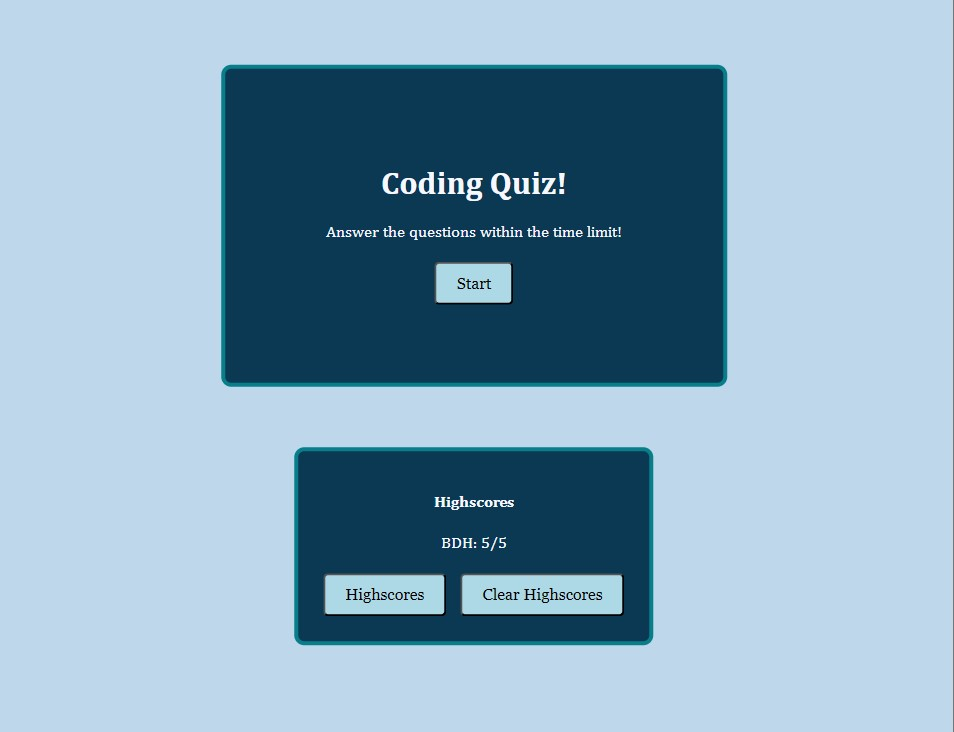
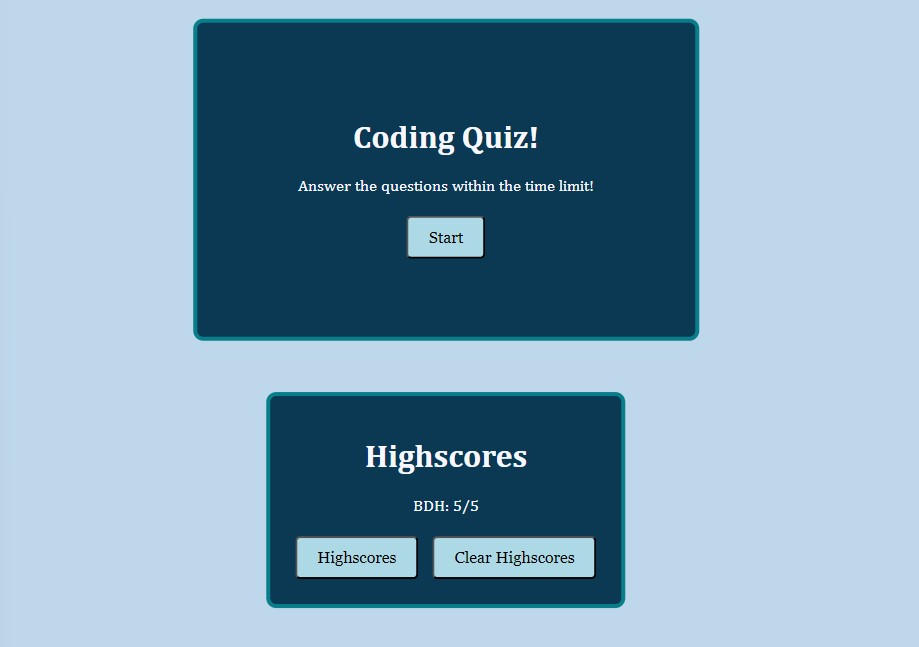
finalalizing code, updated readme, added comments

diff --git a/assets/js/script.js b/assets/js/script.js
@@ -25,22 +25,21 @@ var questionsArray= [
     choices: ["1883","1917","1956","1993"],
     answer:"1883",
 }]
-// vars to pull from document
+// vars to pull items from document
 var startBtn = document.getElementById("startBtn")
 var timerEl = document.querySelector(".timer")
 var questionAnswers = document.getElementById('questionAnswers')
-var questionNumber= 0
 var feedback = document.getElementById("feedback")
+// sets the score, and starts the question at 0
 var score = 0
-
-
+var questionNumber= 0
+// displays the score on page
 var scoreDisplay = document.getElementById('score')
 scoreDisplay.textContent = `Score: ${score}/5`;
-
+// for loop for questions to move onto the next
 for (let i = 0; i<questionsArray.length;i++){
     var currentQuestion = questionsArray[i]
 }
-
 // fuction for start button to start the quiz
 function startQuiz(){
     startBtn.disabled= true
@@ -48,94 +47,120 @@ function startQuiz(){
     document.getElementById("start-screen").style.display= "none" 
     // hides starting screen
     document.getElementById("questionAnchor").style.display = "contents"
-
+    // displays the question once start button is clicked
     document.getElementById("score").style.display = "contents"
-
+    // shows score element on screen
     document.getElementById("timer").style.display = "contents"
-
+    // shows timer element on screen
     timerCount= 60;
+    // sets the timer to 60 seconds
     startTimer()  
     getQuestions()
+    // runs the timer and get questions functions
 }
+// pulls question onto screen
 function getQuestions(){
-    
     var currentQuestion = questionsArray[questionNumber]
+    // current question is the current question in the array
     var questionTitle = document.getElementById('questionTitle')
+    // The title of the question, so the question
     document.getElementById("questionAnchor").style.display = "flex"
-    
+    // sets question title as the title from the array
     questionTitle.textContent = currentQuestion.title
-
     // for loop to create buttons for each answer
     for(var i=0; i < currentQuestion.choices.length; i++){
         var choice = currentQuestion.choices[i];
         var choicebtn= document.createElement('button')
+        // sets the classes for the buttons
         choicebtn.setAttribute('class','answerBtns')
         choicebtn.setAttribute('value', choice)
         choicebtn.textContent= choice
         questionAnswers.appendChild(choicebtn)
     }
 }
-
+// When an answer button is clicked, it triggers this function
 function answerClick(event){
- 
  var answerBtn = event.target
  document.getElementById("feedbackDiv").style.display="contents"
+//  shows the feedback on screen, unhides it
  if (answerBtn.value !== questionsArray[questionNumber].answer){
+    // if you don't select the write answer:
+    // timer goes down 15 seconds
         timerCount -= 15
+        // feedback
         feedback.textContent="Wrong!"
+        // disabled the button pushed
         answerBtn.disabled = true
+        // if timer hits zero, quiz ends
         if (timerCount < 0){
             timerCount = 0
             endQuiz()
         }
-
-        
     } 
     if (answerBtn.value === questionsArray[questionNumber].answer) {  
+        // if button clicked is the write answer:
+        // feedback
         feedback.textContent = "Correct!"
         score++
+        // adds one to the score
         }
     scoreDisplay.textContent = `Score: ${score}/5`;
+    // updates score
     questionAnswers.innerHTML= ''
     // hides remaining answers
     questionNumber++
-
+    // moves to the next question
     if (questionNumber === questionsArray.length){
          winQuiz()
+        //  if you reach the end of the quiz, the winQuiz funtion is triggered
     } else{
         getQuestions()
+        // if not, pulls the next question
     }
 }
 
 function startTimer(){
+    // starts the timer
     timer = setInterval(function(){
         timerCount--;
         timerEl.textContent = timerCount + ' seconds left!'
+        // ends timer at 1 second
       if(timerCount < 1){
         endQuiz();
         }
     }, 1000)
+    // set to countdown at one second
     
 }
 
 function endQuiz(){
+    // function when quiz ends
     clearInterval(timer)
+    // stops timer, says times up
     timerEl.textContent = "Time's up :("
+    // hides questions
     document.getElementById("questionAnchor").style.display = "none"
+    // feedback
     feedback.textContent= "Better luck next time"
+    // sets and pushes score onto screen
     scoreDisplay.textContent = `Score: ${score}/5`
     saveScore()
 }
+// function that triggers when you complete the quiz
 function winQuiz(){
     clearInterval(timer)
+    // stops time, and says you did it
     timerEl.textContent = "You did it!"
     document.getElementById("questionAnchor").style.display = "none"
+    // hides questions, feedback
     feedback.textContent= "Congrats"
+    // saves and displays score
     scoreDisplay.textContent = `Score: ${score}/5`
     saveScore()
 } 
 
 function saveScore(){
+    // saves score to local storage into an array, and displays them on screen
     var highscores = JSON.parse(localStorage.getItem('highscores')) || [];
     var newHighscore = {
     initials: prompt('Enter your initials:'),
@@ -154,14 +179,17 @@ function saveScore(){
 function displayHighScores() {
     var highScores = JSON.parse(localStorage.getItem('highscores')) || [];
     var highScoreList = document.getElementById("highscoreList");
-    highScoreList.innerHTML = "<h4>Highscores</h4>";
+    highScoreList.innerHTML = "<h1>Highscores</h1>";
+    // creates an array if one isn't made yet
     if (highScores.length === 0) {
       highScoreList.innerHTML += "<p>No high scores yet</p>";
     } else {
+        // adds item to array if its already made
       highScores.forEach(function(score) {
           highScoreList.innerHTML += "<p>" + score.initials + ": " + score.score +"/5" + "</p>";
       });
     }
+    // displays highscores
     highScoreList.style.display = "block";
   }
 //   Btn to see highscore (I don't need this, but I'm too attached to delete it)
@@ -169,6 +197,7 @@ document.getElementById("seeHS").addEventListener("click", displayHighScores())
 //   clears highscore list
   var clearStorageBtn = document.getElementById("clearStorage")
   clearStorageBtn.addEventListener("click", clearLocalStorage)
+//   function that clears localstorage
   function clearLocalStorage() {
     localStorage.clear();
     location.reload()
@@ -178,5 +207,6 @@ document.getElementById("seeHS").addEventListener("click", displayHighScores())
 document.getElementById("reset").addEventListener("click",function(){
     location.reload()
 })
+// event listeners to start the quiz when start button is clicked.
 startBtn.addEventListener("click",startQuiz)
 questionAnswers.onclick= answerClick

diff --git a/index.html b/index.html
@@ -19,20 +19,15 @@
                 <!-- start button -->
                 <button id ="startBtn" class="start">Start</button>
             </div>
-
-
-           
-            
+            <!-- anchor for quiz questions -->
             <div id="questionAnchor" style="display:none">
                 <h1 id="questionTitle"></h1>
-                
+                <!-- anchor for answer buttons -->
                 <div id="questionAnswers"></div>
-
                          <div id="feedbackDiv" style="display:none">
-
                     <p id="feedback"></p></div>
                 </div>
-
+                <!-- Timer div, and scores are anchored here -->
                 <div id="timer" class ="timersection hidden">
                     <div class="timer"> <span id="timer"></span></div> 
                     <div id="score" class="hidden"></div>     
@@ -45,22 +40,16 @@
 
     </div>
 
-   
-        <!-- correct or incorrect noises -->
-
     <!-- high score card --> 
     <div class="highscoreCard">
         <div id="highscoreList">
             <h1>Highscores</h1>
         </div>
         <div>
+            <!-- buttons for highscores and clear highscores, clearing local storage -->
             <button id="seeHS">Highscores</button>
             <button id="clearStorage">Clear Highscores</button>
         </div>
     </div>
-
-
-    
-    
  <script src="./assets/js/script.js"></script>
 </body>

diff --git a/assets/css/style.css b/assets/css/style.css
@@ -75,6 +75,10 @@ button{
     margin: 5px;
     font-family: Georgia, 'Times New Roman', Times, serif;
 }
+    button:hover{
+        background-color: blue;
+        color:white;
+    }
 #feedbackDiv{
     background-color:#087e8b;
     color:#f7f7ff;

diff --git a/README.md b/README.md
@@ -9,13 +9,9 @@ When you click on the start quiz button:
 
         -if the user clicks the incorrect choice:
 
-            -a sound will play 
-
             -15 seconds will be removed from the timer
 
         -if the user clicks the correct choice:
-
-            -A sound will be played
 
             -No time will be docked
 
@@ -44,6 +40,6 @@ When you click on the start quiz button:
 
 Screenshot of working app: ![Screenshot](assets/images/WorkingQuiz.jpg)
 
-Link to deployed app:
+Link to deployed app: https://brockhanni.github.io/Week-4-Coding-Quiz/
 
 -Note: App includes a highscores button, it doesn't open the card, as I made the decision to just show the highscores on site
